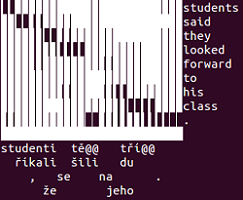
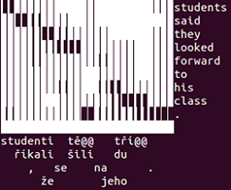
Screehshot resize + readme update

diff --git a/README.md b/README.md
@@ -16,6 +16,23 @@ Usage
     - in the command line standard output
     - in a web browser (PHP required)
 
+Installation
+---------
+
+From the repository - this way you get all files including test data and the web version for viewing.
+	```bash
+	git clone https://github.com/M4t1ss/SoftAlignments.git
+	cd SoftAlignments
+	python softalignments/process_alignments.py -i test_data/nematus/alignments.txt -o color -f Nematus -n 1
+	```
+
+From the PyPI via pip - this will install only the Python part without the PHP web version. For now only color, block and block2 output forms work with this.
+	```bash
+	pip install softalignments
+	wget https://raw.githubusercontent.com/M4t1ss/SoftAlignments/master/test_data/nematus/alignments.txt
+	softalignments -i alignments.txt -o color -f Nematus -n 1
+	```
+
 Requirements
 ---------
 
@@ -117,7 +134,7 @@ Examples
   - in the command line as shaded blocks. Example with Neural Monkey alignments (separate source and target subword unit files are required)
 	
 	```sh
-	python process_alignments.py \
+	python softalignments/process_alignments.py \
 	-i test_data/neuralmonkey/alignments.npy  \
 	-o color \
 	-s test_data/neuralmonkey/src.en.bpe \
@@ -128,7 +145,7 @@ Examples
   - the same with Nematus alignments (source and target subword units are in the same file)
 	
 	```sh
-	python process_alignments.py \
+	python softalignments/process_alignments.py \
 	-i test_data/nematus/alignments.txt \
 	-o color \
 	-f Nematus
@@ -137,7 +154,7 @@ Examples
   - in a text file as Unicode block elements
 	
 	```sh
-	python process_alignments.py \
+	python softalignments/process_alignments.py \
 	-i test_data/neuralmonkey/alignments.npy  \
 	-o block \
 	-s test_data/neuralmonkey/src.en.bpe \
@@ -147,7 +164,7 @@ Examples
 	
 	  or
 		
-		python process_alignments.py \
+		python softalignments/process_alignments.py \
 		-i test_data/neuralmonkey/alignments.npy  \
 		-o block2 \
 		-s test_data/neuralmonkey/src.en.bpe \
@@ -157,7 +174,7 @@ Examples
   - in the browser as links between words (demo [here](http://lielakeda.lv/other/NLP/alignments/?s=19))
 	
 	```sh
-	python process_alignments.py \
+	softalignments/python process_alignments.py \
 	-i test_data/marian/marian.out.lv \
 	-s test_data/marian/marian.src.en \
 	-o web \
@@ -219,7 +236,7 @@ OutputType: color
 ```
 And run:
 ```sh
-python process_alignments.py -c config.ini
+python softalignments/process_alignments.py -c config.ini
 ```
 
 Screenshots
